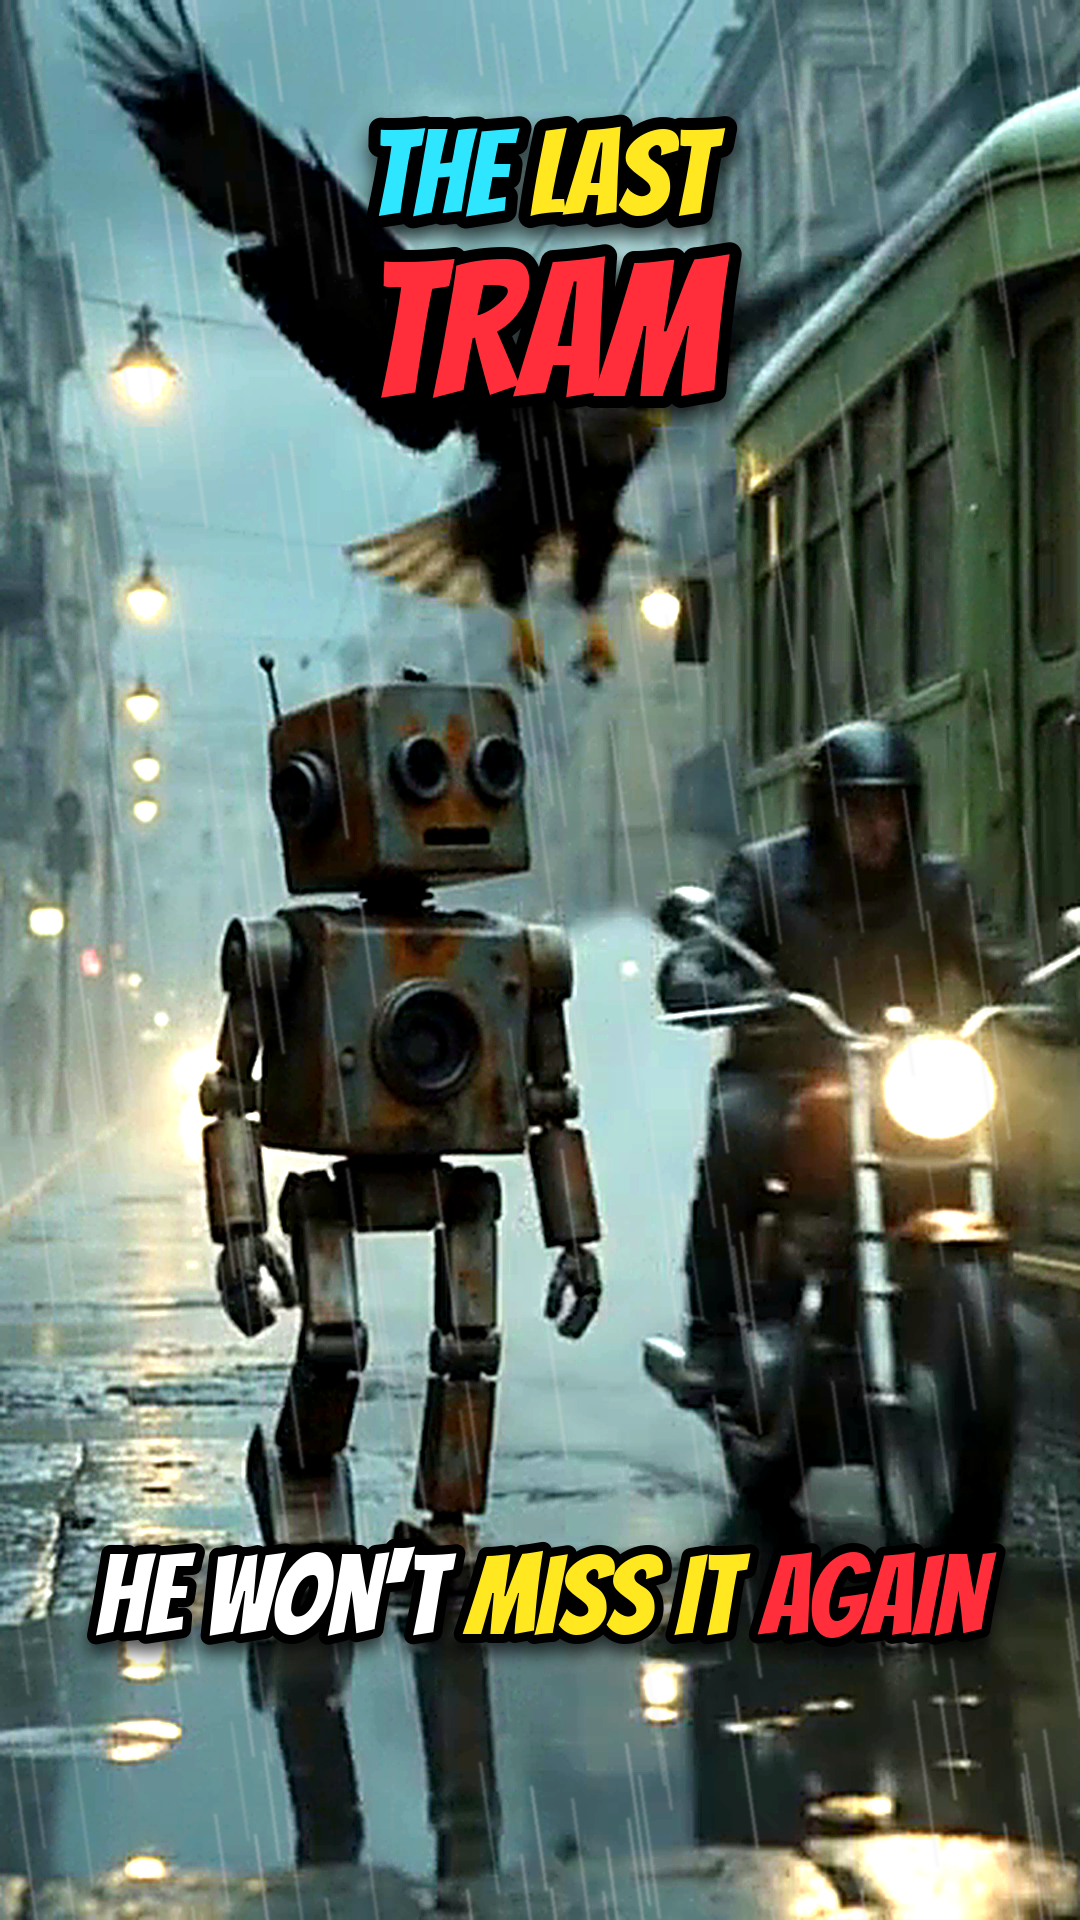
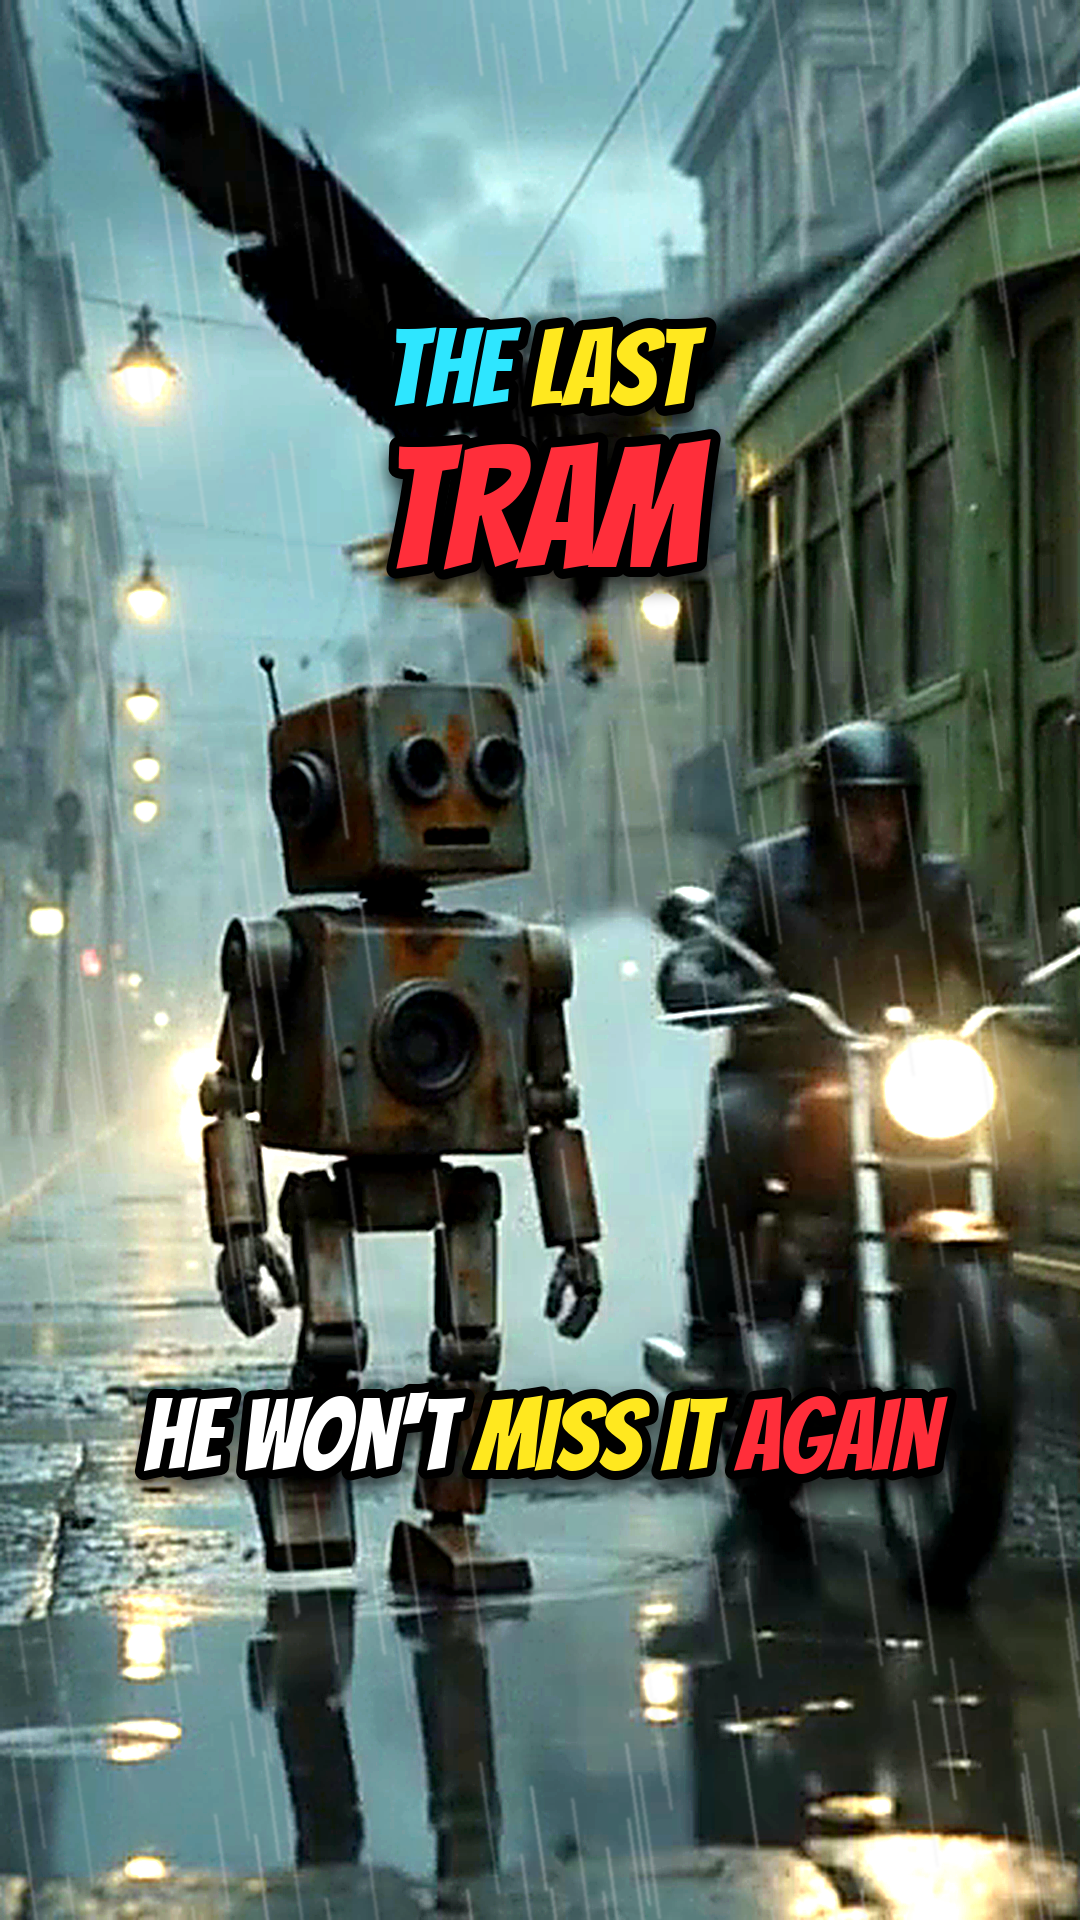
Keep thumbnail text and subject inside YouTube crop safe zones
Claude-Session: https://claude.ai/code/session_0155V3mDnnMpMR56LwqsYNnu

Changed region(s): [[0.0611, 0.7188, 0.9472, 0.875], [0.3361, 0.0625, 0.7028, 0.3125]]

diff --git a/shorts/v2/assets.py b/shorts/v2/assets.py
@@ -82,11 +82,12 @@ src = Image.open(FRAME).convert("RGB")  # 1280x720
 v = grade(src.crop((300, 0, 705, 720)).resize((W, H), Image.LANCZOS)).convert("RGBA")
 rl = Image.open(f"{OUT}/rain_near.png").crop((0,300,W,300+H))
 v.alpha_composite(Image.merge("RGBA", (*[Image.new("L",(W,H),230)]*3, rl.point(lambda p: int(p*0.55)))))
-brand(v, W//2, 110)
-text_img([("HE",WHITE),("WON'T",WHITE),("MISS",YEL),("IT",YEL),("AGAIN",RED)], 112, y=0.80, name=None)
-v.alpha_composite(text_img([("HE",WHITE),("WON'T",WHITE),("MISS",YEL),("IT",YEL),("AGAIN",RED)], 112, y=0.80))
+# keep text inside the 4:5 band (y 285..1635) that feeds and grids crop to
+brand(v, W//2, 310, scale=0.9)
+v.alpha_composite(text_img([("HE",WHITE),("WON'T",WHITE),("MISS",YEL),("IT",YEL),("AGAIN",RED)], 100, y=0.72))
 v.convert("RGB").save(f"{OUT}/thumbnail_shorts_1080x1920.png")
 
-h = grade(src.crop((0, 0, 1120, 630)).resize((1280, 720), Image.LANCZOS)).convert("RGBA")
-hb = Image.new("RGBA", (1280, 720)); brand(hb, 330, 30, scale=0.75)
+# robot and title centred so a 9:16 centre crop (x 437..842) still shows both
+h = grade(src.crop((10, 0, 900, 500)).resize((1280, 720), Image.LANCZOS)).convert("RGBA")
+hb = Image.new("RGBA", (1280, 720)); brand(hb, 640, 20, scale=0.7)
 h.alpha_composite(hb); h.convert("RGB").save(f"{OUT}/thumbnail_1280x720.png")
